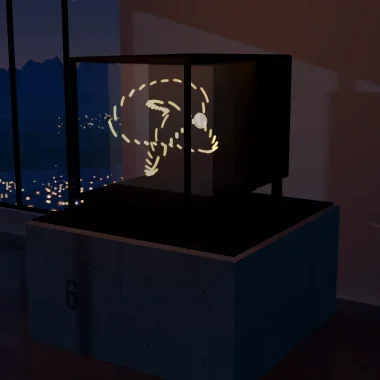
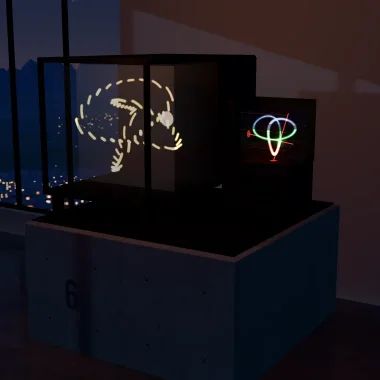
The block of glass stands beside the stack of sheets
The static-volume display has two ways of filling a volume, and its
model showed one. Beside the stack of liquid crystal sheets now stands
the block of glass that glows where two infrared beams cross: three
layers, one for each colour, the beams drawn in red, and the crossing
point drawing a knot in the colour of the layer it is in.

The label says how large the prototype was and that it was built in
three layers, from an article in MIT Technology Review of 1997, which is
added to the sources. A second view goes close to the glass. The words
are in all nine languages, and the poster and the pictures for the walk
are taken again.

Claude-Session: https://claude.ai/code/session_01KP7tcprV3yrddMW1oAunK2

Changed region(s): [[0.0868, 0.1447, 0.6079, 0.5789], [0.6368, 0.1447, 0.8395, 0.5211]]

diff --git a/src/three/models/h6.ts b/src/three/models/h6.ts
@@ -273,7 +273,10 @@ export function sweptVolume(): Built {
   };
 }
 
-/** Static volume: a stack of liquid crystal sheets. One at a time turns milky and catches its slice of the picture. */
+/**
+ * Static volume, both ways. A stack of liquid crystal sheets: one at a time turns milky and catches its slice of
+ * the picture. And beside it a block of glass in three layers, which glows where two infrared beams cross.
+ */
 export function staticVolume(): Built {
   const root = G.group();
   const LAYERS = 12, S = 1.3, cy = 1.0;
@@ -297,14 +300,61 @@ export function staticVolume(): Built {
   for (const sy of [-1, 1]) root.add(G.box(S + 0.11, 0.05, S + 0.11, M.plastic(0x1d1f22, 0.5), [0, cy + sy * (h + 0.025), 0]));
   root.add(vox.points, G.rbox(S + 0.11, S + 0.16, 0.9, 0.04, M.plastic(0x1d1f22, 0.5), [0, cy, -h - 0.47]), vents(0.9, 0.5, 9, [0, cy, -h - 0.921]), feet(S + 0.11, S + 1.0, 0.07, 0.3, 0).translateZ(-0.45));
   root.add(G.cyl(0.11, 0.05, M.dark(), [0, cy, -h - 0.02], 32).rotateX(Math.PI / 2), G.cyl(0.09, 0.006, M.glow(0xfff2e0, 1.6), [0, cy, -h + 0.008], 28).rotateX(Math.PI / 2));
+
+  // the other way, to the right of the projector: the block of glass of 1996, many times its size. It is built in
+  // three layers, one for each colour. One beam comes up from the cabinet under it and one out of the housing at
+  // its side, and a black card stands behind it, so that the light shows by day. It stands back there so that the
+  // look along the sheets, from the right, has nothing lit behind it
+  const GX = 1.28, GZ = -0.9, C = 0.56, y0 = 0.585, yc = y0 + C / 2, tall = C + 0.14;
+  const tints = [0xdcc3bd, 0xc2d8c4, 0xbfc8de];
+  root.add(G.rbox(0.8, 0.5, 0.74, 0.03, M.plastic(0x1d1f22, 0.5), [GX - 0.08, 0.31, GZ - 0.03]), feet(0.8, 0.74, 0.05, 0.06, 0).translateX(GX - 0.08).translateZ(GZ - 0.03), vents(0.44, 0.2, 5, [GX - 0.08, 0.3, GZ + 0.341]));
+  root.add(G.box(C + 0.06, 0.025, C + 0.06, M.dark(), [GX, 0.5725, GZ]), G.box(C + 0.24, tall, 0.03, M.black(), [GX - 0.06, 0.56 + tall / 2, GZ - C / 2 - 0.06]), G.rbox(0.14, tall, C + 0.12, 0.03, M.plastic(0x1d1f22, 0.5), [GX - C / 2 - 0.11, 0.56 + tall / 2, GZ - 0.02]));
+  const from1: V3 = [GX, y0 + 0.001, GZ], from2: V3 = [GX - C / 2 - 0.038, yc, GZ];
+  root.add(G.cyl(0.04, 0.004, M.glow(0xff4030, 0.9), from1, 20), G.cyl(0.04, 0.004, M.glow(0xff4030, 0.9), from2, 20).rotateZ(Math.PI / 2));
+  tints.forEach((tint, k) => root.add(G.box(C, C / 3 - 0.003, C, M.glass(tint, 0.07, 0.5), [GX, y0 + (k + 0.5) * (C / 3), GZ])));
+  const path = knot(GX, yc + 0.038, GZ, 0.243);
+  const HUE: V3[] = [[1, 0.2, 0.14], [0.22, 1, 0.36], [0.28, 0.48, 1]];
+  const hue = (y: number): V3 => HUE[Math.max(0, Math.min(2, Math.floor((y - y0) / (C / 3))))];
+  const trail = airTrail(340, 0.05, path, (u) => hue(path(u)[1]));
+  const spark = halo(0xffffff, 0.18);
+  const up = ray(0xff3a24, 0.0055, 0.55), across = ray(0xff3a24, 0.0055, 0.55);
+  // from the first moment they lie inside the block, so that the model is measured as it stands
+  up.aim(from1, [GX, y0 + C, GZ]); across.aim(from2, [GX + C / 2, yc, GZ]);
+  spark.position.set(...path(0));
+  root.add(trail.points, spark, up.mesh, across.mesh);
+
   const col = new THREE.Color();
   return {
-    root, views: { sheets: { at: [1.8, 1.25, 0.55], to: [0, 1.0, 0], fov: 32 } }, inDark: 'glows', glow: 0xffb070, view: [32, 12],
+    root, views: { sheets: { at: [1.8, 1.25, 0.55], to: [0, 1.0, 0], fov: 32 }, glass: { at: [GX + 0.5, 1.14, GZ + 1.5], to: [GX - 0.03, yc - 0.02, GZ], fov: 30 } }, inDark: 'glows', glow: 0xffb070, view: [32, 12],
     update: ({ t }) => {
       const live = Math.floor(t * 7) % LAYERS; // slowed far down: the real stack cycles every sheet about fifty times a second
       sheets.forEach((m, k) => { m.opacity = k === live ? 0.3 : 0.025; });
       pts.forEach((_, i) => { const k = layerOf[i] === live ? 1 : 0.3; col.setHSL(0.06 + (layerOf[i] / LAYERS) * 0.12, 1, 0.6); vox.col.set([col.r * k, col.g * k, col.b * k], i * 3); });
       vox.flush();
+      // the crossing point is steered round the figure. Each beam goes on through the block: only the crossing glows
+      const ph = (t * 0.22) % 1, at = path(ph), c = hue(at[1]);
+      trail.trace(ph);
+      spark.position.set(at[0], at[1], at[2]);
+      (spark.material as THREE.SpriteMaterial).color.setRGB(c[0], c[1], c[2]);
+      const k1 = (y0 + C - from1[1]) / (at[1] - from1[1]), k2 = (GX + C / 2 - from2[0]) / (at[0] - from2[0]);
+      up.aim(from1, [from1[0] + (at[0] - from1[0]) * k1, y0 + C, from1[2] + (at[2] - from1[2]) * k1]);
+      across.aim(from2, [GX + C / 2, from2[1] + (at[1] - from2[1]) * k2, from2[2] + (at[2] - from2[2]) * k2]);
+    },
+  };
+}
+
+/** A beam that is turned while it shines: a thin rod of light from one point to another. */
+function ray(color: number, r: number, opacity: number): { mesh: THREE.Mesh; aim: (a: V3, b: V3) => void } {
+  const mesh = new THREE.Mesh(new THREE.CylinderGeometry(r, r, 1, 8, 1, true), M.add(null, color, opacity));
+  const along = new THREE.Vector3(), Y = new THREE.Vector3(0, 1, 0);
+  return {
+    mesh,
+    aim: (a, b) => {
+      along.set(b[0] - a[0], b[1] - a[1], b[2] - a[2]);
+      const len = along.length() || 1e-6;
+      mesh.position.set((a[0] + b[0]) / 2, (a[1] + b[1]) / 2, (a[2] + b[2]) / 2);
+      mesh.scale.set(1, len, 1);
+      mesh.quaternion.setFromUnitVectors(Y, along.divideScalar(len));
     },
   };
 }

diff --git a/src/data/pieces/h6.ts b/src/data/pieces/h6.ts
@@ -85,12 +85,12 @@ export const h6: Piece[] = [
     lead: 'Any point inside a block of space can be made to give off light or to scatter light, and nothing moves.',
     how: [
       'One approach is a stack of liquid crystal sheets, each of which can switch from clear to milky. A fast projector behind the stack shows one slice of the scene at a time. Only the matching sheet turns milky and catches that slice. DepthCube used 20 sheets.',
-      'Another approach uses a block of special glass that glows only where two invisible infrared beams cross. When the crossing point is steered through the block, it draws in three dimensions.',
+      'Another approach uses a block of special glass that glows only where two invisible infrared beams cross. When the crossing point is steered through the block, it draws in three dimensions. The prototype was a cube about 15 millimetres on each side, made of three layers of glass: one glows red, one green and one blue.',
     ],
     good: ['Gives true depth with no moving parts', 'Serves several viewers at once, without glasses'],
     bad: ['Has only as many steps of depth as it has sheets', 'Gives a translucent picture, like all displays that fill a volume', 'Is bulky for the size of its picture'],
-    look: 'The figure is a knot. The lit sheet moves from front to back, and the model slows it to a few steps a second. Look along the stack from the side to see the knot divided into slices.',
-    sources: [src('paper', 'Downing and others, Science (1996)', 'https://doi.org/10.1126/science.273.5279.1185'), src('paper', 'Favalora, Progress in Volumetric Three-dimensional Displays and Their Applications (2009)', 'http://greggandjenny.com/blog/wp-content/uploads/files/Favalora_publications/2009_OSA_FiO_Favalora_Volumetric.pdf'), wiki('Volumetric_display', 'Volumetric display')],
+    look: 'The figure in the stack is a knot. The lit sheet moves from front to back, and the model slows it to a few steps a second. Look along the stack from the side to see the knot divided into slices. Beside the stack stands the block of glass, many times its real size. Its two beams are drawn in red so that they can be seen. The point where they cross draws a knot too, in the colour of the layer it passes through.',
+    sources: [src('paper', 'Downing and others, Science (1996)', 'https://doi.org/10.1126/science.273.5279.1185'), src('press', 'Drake, An Added Dimension in Display Technology, MIT Technology Review (1997)', 'https://www.technologyreview.com/1997/05/01/237287/an-added-dimension-in-display-technology/amp/'), src('paper', 'Favalora, Progress in Volumetric Three-dimensional Displays and Their Applications (2009)', 'http://greggandjenny.com/blog/wp-content/uploads/files/Favalora_publications/2009_OSA_FiO_Favalora_Volumetric.pdf'), wiki('Volumetric_display', 'Volumetric display')],
   },
   {
     id: 'optical-trap', hall: 6, name: 'Optical trap display', aka: 'Photophoretic trap display',

diff --git a/src/data/views.ts b/src/data/views.ts
@@ -149,6 +149,7 @@ export const views: Record<string, ViewInfo[]> = {
   ],
   'static-volume': [
     { id: 'sheets', kind: 'detail', label: 'Look along the sheets', hint: 'Twelve liquid crystal sheets. One at a time turns milky and catches its slice of the picture. The rest stay clear.' },
+    { id: 'glass', kind: 'detail', label: 'Go close to the glass', hint: 'Three layers of glass, one for each colour. It glows only where the two beams cross, and that point draws the figure.' },
   ],
   'optical-trap': [
     { id: 'speck', kind: 'detail', label: 'Go close to the speck', hint: 'One speck of cellulose, held in a laser beam and dragged round. Three small lasers colour it as it passes.' },
